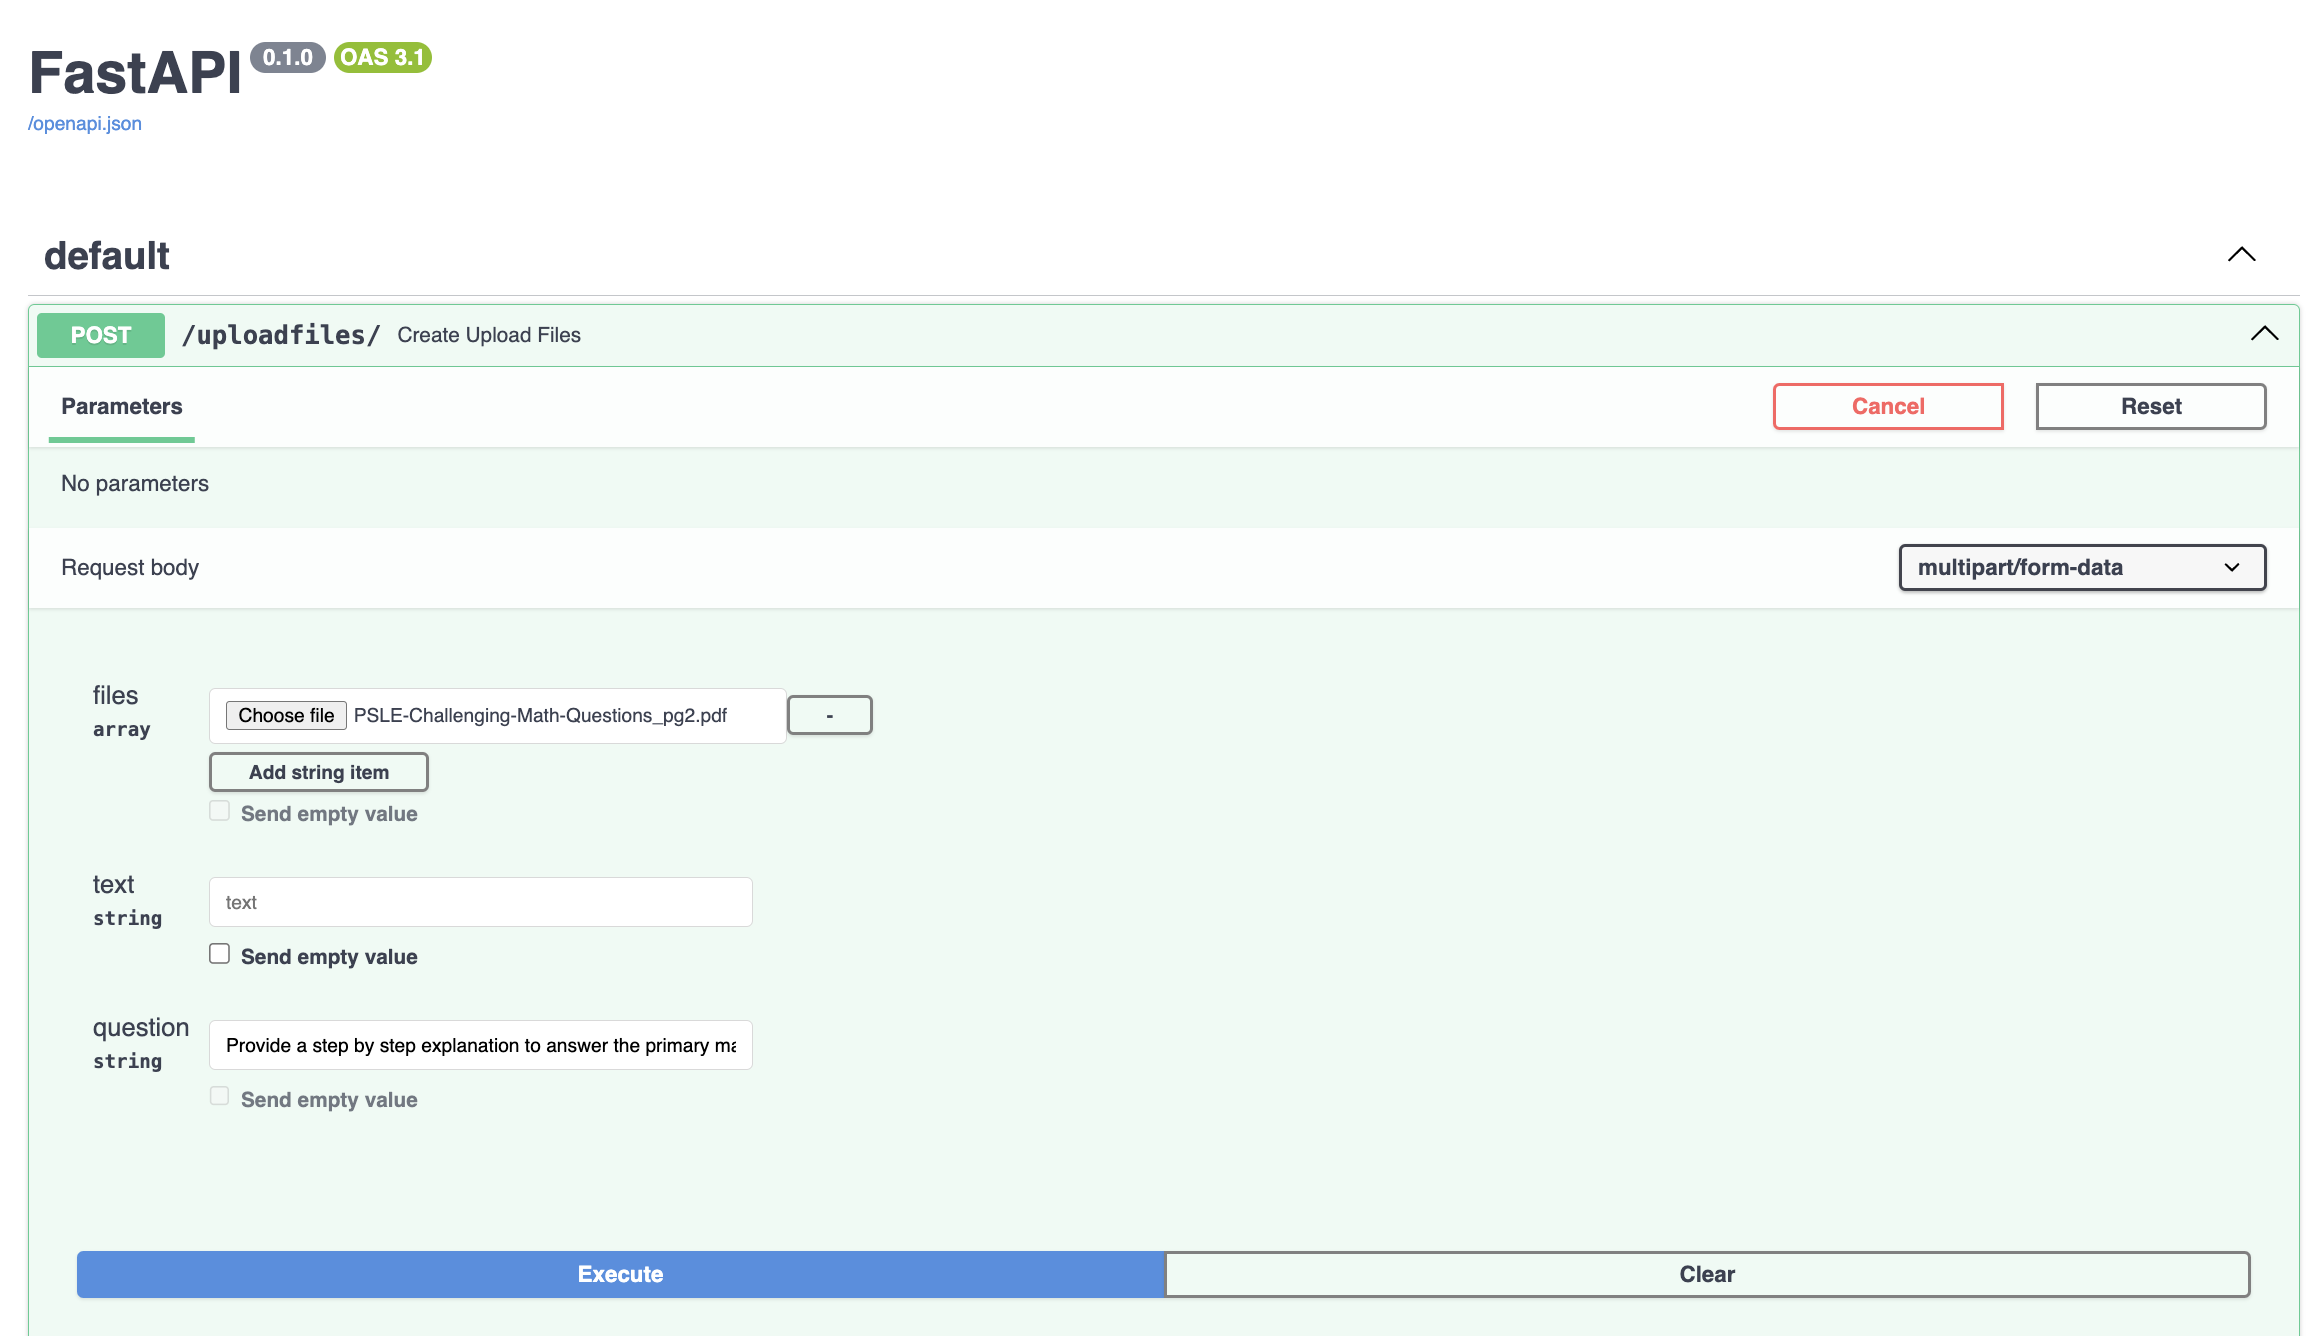
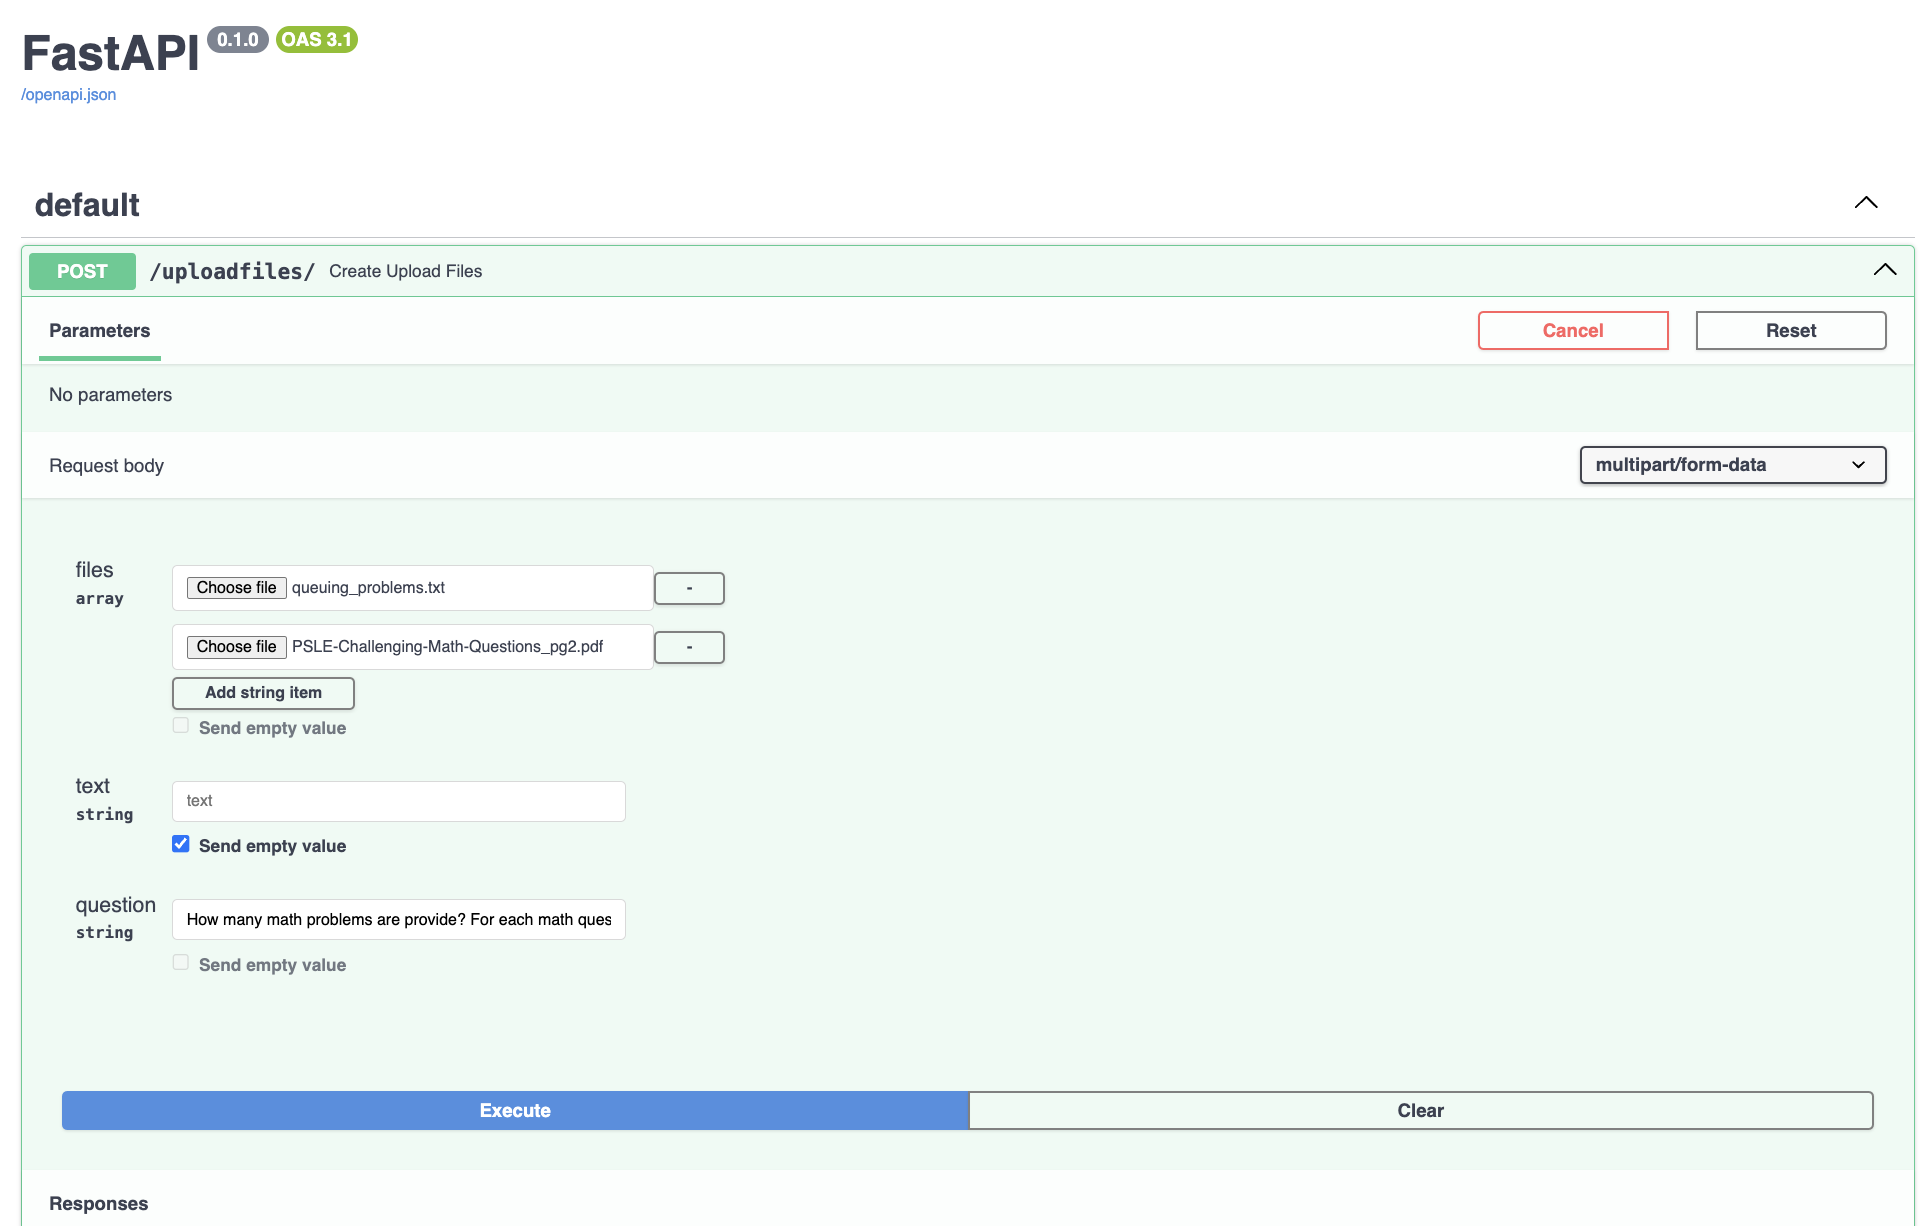
Refactor fastapi_app.py and run it successfully for multi docs or provided text Q&A using LLM

diff --git a/app/llmchat_utils.py b/app/llmchat_utils.py
@@ -26,10 +26,12 @@ from chromadb import Settings
 
 load_dotenv()
 
+
 # Initiate openai client
 client = OpenAI(
     api_key=os.environ.get("OPENAI_API_KEY"),
 )
+
 
 def select_llm(model_name):
     # Map model names to OpenAI model IDs
@@ -78,29 +80,33 @@ def file_loader(file_extension, file_name):
     return loader
 
 
-def build_retriver(uploaded_files):
+def load_multi_docs(file_list):
+    documents = []
+
+    for file in file_list:
+        bytes_data = file.file.read()
+
+        try:
+            file_path = os.path.join("./uploaded_docs/", file.name)
+        except:
+            file_path = os.path.join("./uploaded_docs/", file.filename)
+        with open(file_path, "wb") as f:
+            f.write(bytes_data)
+
+        _, extension = os.path.splitext(file_path)
+        loader_file = file_loader(extension, file_path)
+        documents.extend(loader_file.load())
+
+    return documents
+
+
+def build_retriver(documents):
     # Re-build retriever
     chromadb = Chroma(
         collection_name="uploaded_docs",
         embedding_function=embeddings,
         client_settings=Settings(anonymized_telemetry=False, is_persistent=False),
     )
-
-    bytes_data = uploaded_files.file.read()
-
-    try:
-        file_path = os.path.join("./uploaded_docs/", uploaded_files.name)
-    except:
-        file_path = os.path.join("./uploaded_docs/", uploaded_files.filename)
-    with open(file_path, "wb") as f:
-        f.write(bytes_data)
-
-    _, extension = os.path.splitext(file_path)
-    loader_file = file_loader(extension, file_path)
-    documents = loader_file.load()
-    loaded_text = ""
-    for page in documents:
-        loaded_text += page.page_content + "\n"
 
     splits = splitter.split_documents(documents)
 
@@ -145,11 +151,14 @@ def generate_response(prompt, data_retriever, llm_model):
 
 
 # Generate a response over context in text box
-def chat_completion(prompt, model_name):
+def chat_completion(content, question, model_name):
+    prompt = content + question
+    messages = []
+    messages.append({"role": "user", "content": prompt})
     response_object = client.chat.completions.create(
         model=model_name,
         temperature=0,
-        messages={"role": "user", "content": prompt},
+        messages=messages,
     )
     response = response_object.choices[0].message.content
     total_tokens = response_object.usage.total_tokens

diff --git a/app/fastapi_app.py b/app/fastapi_app.py
@@ -20,33 +20,39 @@ async def create_upload_files(
 ):
     content = ""
 
-    for file in files:
-        content += (
-            f"Uploaded File Content ({file.filename}):\n{file.read()}\n"
-        )
-    if text is None:
+    if files is not None:
+        for file in files:
+            content += f"Uploaded File Content ({file.filename}):\n{file.read()}\n"
+    else:
+        pass
+    if text is not None:
         content += f"User Provided Text:\n{text}\n"
+    else:
+        pass
 
     if content is not None:
         pass
     else:
         print("Please provide data by uploading files or provide as text input.")
 
-    if len(files)!=0 and text is None:
-        retriever = build_retriver(files[0])
+    if files is not None and text is None:
+        documents = load_multi_docs(files)
+        retriever = build_retriver(documents)
         output, call_back = generate_response(
             prompt=question, data_retriever=retriever, llm_model=llm
         )
         total_tokens = call_back.total_tokens
         prompt_tokens = call_back.prompt_tokens
         completion_tokens = call_back.completion_tokens
-    elif len(files)==0 and text is not None:
+    elif files is None and text is not None:
         (
             output,
             total_tokens,
             prompt_tokens,
             completion_tokens,
-        ) = chat_completion(text, model_name)  
+        ) = chat_completion(text, question, model_name)
+    else:
+        print("Please provide data by uploading files or provide as text input.")
 
     cost = calculate_cost(model_name, total_tokens, prompt_tokens, completion_tokens)
 

diff --git a/run_fastapi.py b/run_fastapi.py
@@ -20,10 +20,7 @@ def main():
     response = requests.post(
         url=url,
         files=files,
-        data={
-            # "text":"",
-            "question": question
-        },
+        data={"text": "", "question": question},
     )
     print(response.json())
 
